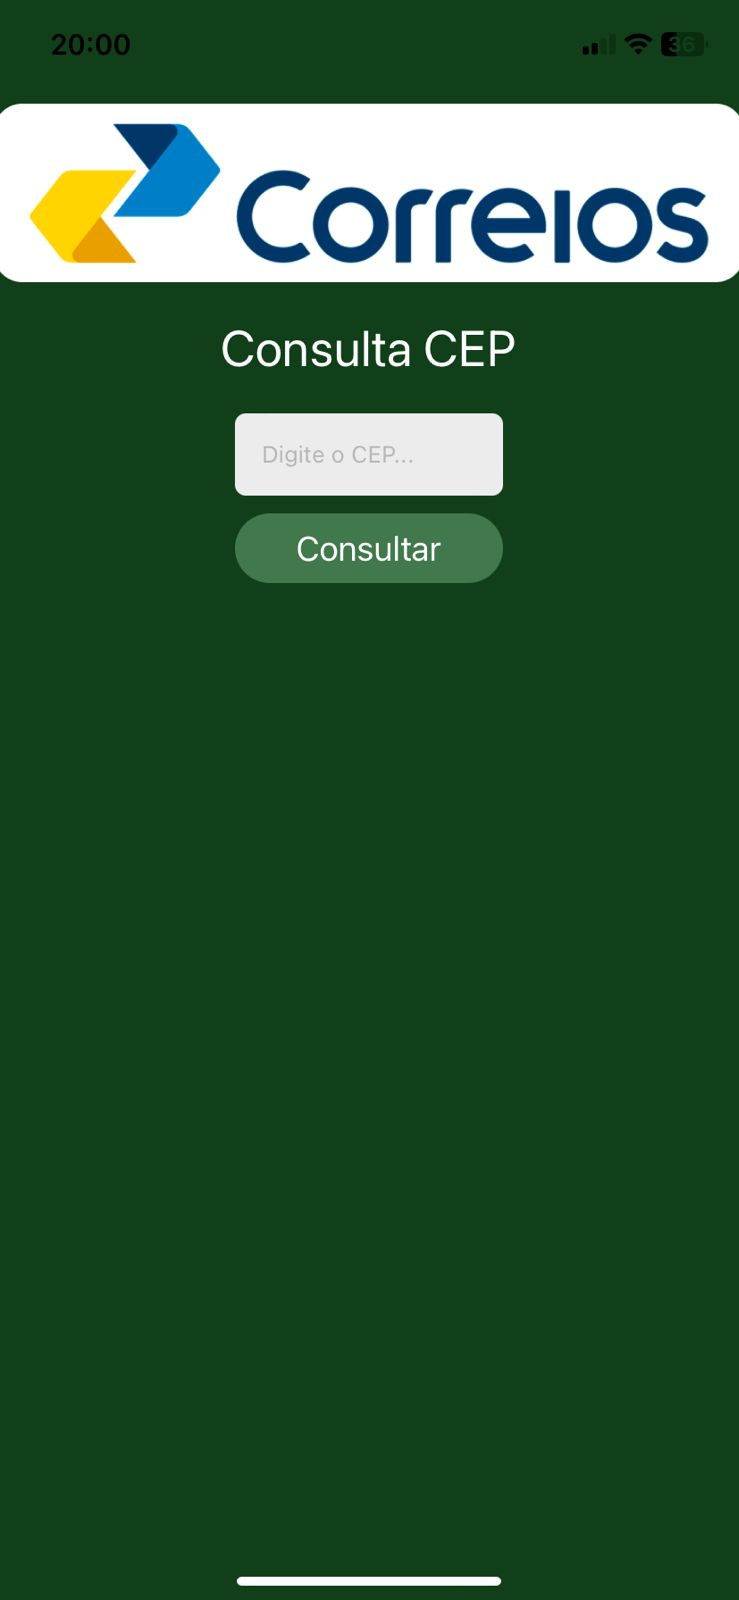
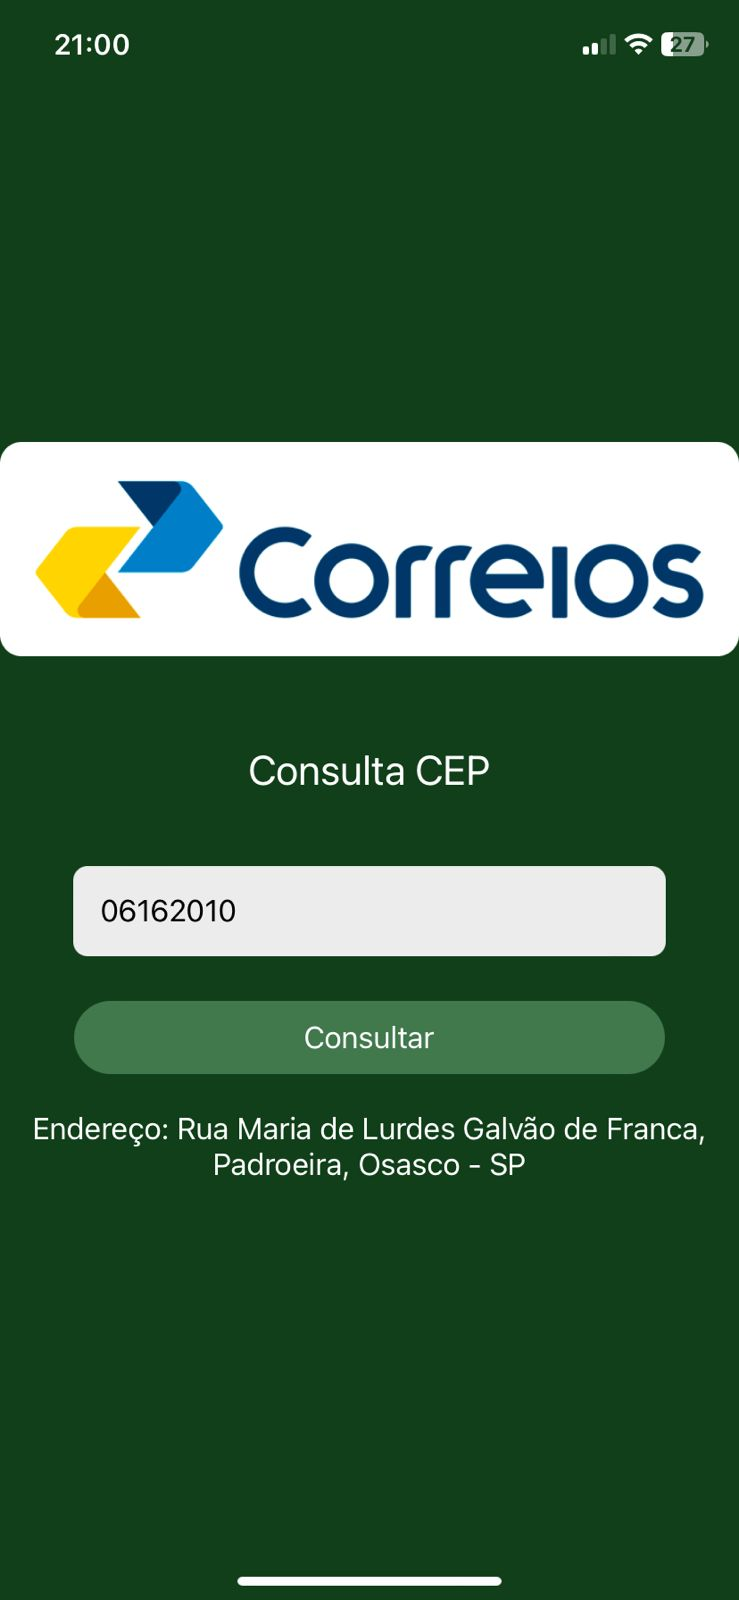
Melhorias no layout e inserção de melhorias.

diff --git a/App.js b/App.js
@@ -1,25 +1,36 @@
-import React, { Image, SafeAreaView, View, Text, StatusBar, TextInput, TouchableOpacity } from 'react-native';
+import React, { useState } from 'react';
+import { Image, SafeAreaView, View, Text, StatusBar, TextInput, TouchableOpacity, Keyboard } from 'react-native';
 import { styles } from './style.js';
-import { useState } from 'react';
 
 function App() {
   const [cep, setCep] = useState("");
   const [resultado, setResultado] = useState("");
 
-  async function ConsultarCep() {
-    console.log(cep);
+  const ConsultarCep = async () => {
+    Keyboard.dismiss();
+    setResultado("");
 
-    const request = await fetch("https://viacep.com.br/ws/" + cep + "/json/");
-    const retorno = await request.json();
+    if (!/^\d{8}$/.test(cep)) {
+      setResultado("CEP inválido");
+      return;
+    }
 
-    setResultado("Endereço: " + retorno.logradouro);
-    
-    console.log(retorno);
-  }
+    try {
+      const response = await fetch(`https://viacep.com.br/ws/${cep}/json/`);
+      const { erro, logradouro, bairro, localidade, uf } = await response.json();
+
+      setResultado(erro 
+        ? "CEP não encontrado" 
+        : `Endereço: ${logradouro}, ${bairro}, ${localidade} - ${uf}`
+      );
+    } catch {
+      setResultado("Erro na consulta");
+    }
+  };
 
   return (
     <SafeAreaView style={styles.container}>
-      <StatusBar barStyle="dark-content"/>
+      <StatusBar barStyle="light-content" />
       <Image 
         style={styles.img} 
         source={{ uri: "https://www.climba.com.br/blog/wp-content/uploads/2016/08/Mudan%C3%A7as-no-PAc-dos-Correios-Idealize-Tecnologia-1.png" }} 
@@ -30,7 +41,9 @@ function App() {
         <TextInput 
           placeholder="Digite o CEP..." 
           style={styles.TextInput} 
-          onChangeText={texto => setCep(texto)}
+          onChangeText={setCep}
+          keyboardType="numeric"
+          maxLength={8}
         /> 
         
         <TouchableOpacity style={styles.btn} onPress={ConsultarCep}> 

diff --git a/style.js b/style.js
@@ -3,46 +3,51 @@ export const styles = {
       backgroundColor: "#103F19",
       flex: 1,
       alignItems: "center",
-      justifyContent: "flex-start", // Alinha os elementos no topo
-      paddingTop: 20, // Espaçamento no topo para evitar colar na borda superior
+      justifyContent: "center", 
+      padding: 20, 
     },
     titulo: {
       color: "white",  
-      fontSize: 30,
+      fontSize: 24,
       padding: 10, 
       textAlign: "center",
-      marginTop: 10 // Espaçamento abaixo da imagem
+      marginVertical: 20, 
     },
     TextInput: {
       backgroundColor: "#ececec",
       padding: 15,
-      width: 150,
-      borderRadius: 6,
-      marginTop: 5 // Espaçamento entre a imagem e o campo de entrada
+      width: '80%', 
+      borderRadius: 8,
+      marginVertical: 10, 
+      fontSize: 18,
     },
     form: {
-      marginTop: 5
+      width: '100%', 
+      alignItems: 'center',
     },
     resultado: {
-      fontSize: 30
+      fontSize: 18,
+      color: "#ffffff",
+      marginTop: 20,
+      textAlign: "center",
     },
     btn: {
-        backgroundColor: "#41784C",
-      width: 150,
-      borderRadius: 50,
-      padding: 8,
+      backgroundColor: "#41784C",
+      width: '80%', 
+      borderRadius: 25,
+      padding: 10,
       alignItems: "center",
-      marginTop: 10
+      marginTop: 15,
     },
     btnText: {
       color: "#fff",
-      fontSize: 20 
+      fontSize: 18,
     },
     img: {
-      borderRadius: 16,
-      width: 420,
-      height: 100,
-      marginTop: 10, // Pequeno espaçamento abaixo da imagem
+      width: '100%', 
+      height: 120,
+      borderRadius: 12,
+      marginBottom: 20, 
     }
   };
   
